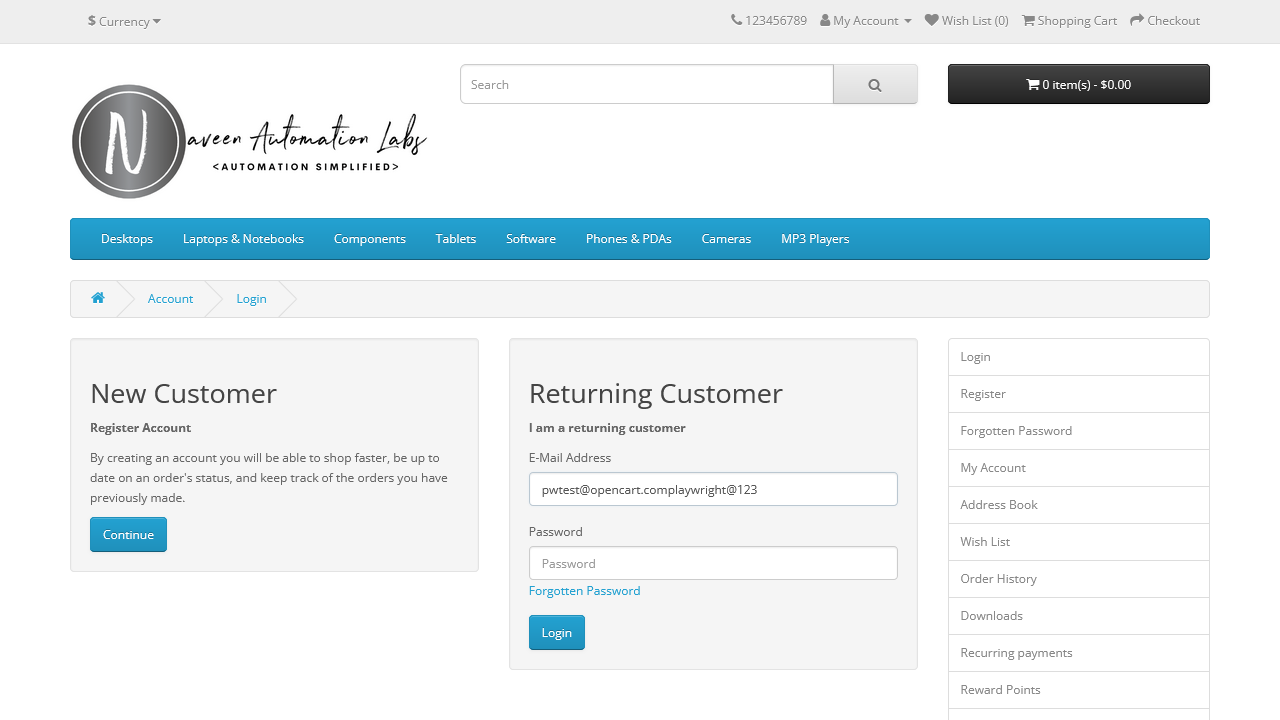
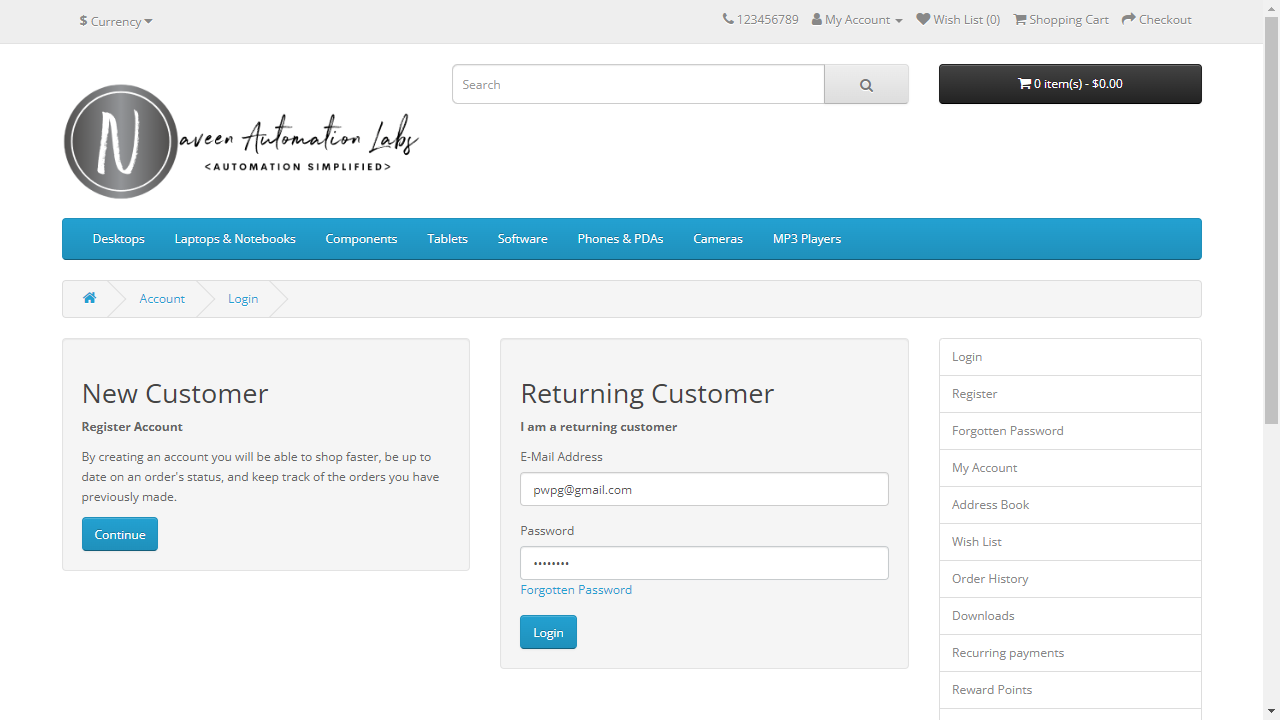
browserContext

diff --git a/e2e/browser.spec.ts b/e2e/browser.spec.ts
@@ -1,0 +1,41 @@
+import { test, expect, Browser, Page, Locator, BrowserContext } from '@playwright/test'
+import { webkit, chromium, firefox } from '@playwright/test'
+
+test('login test', async () => {
+    const browser: Browser = await chromium.launch({ headless: false, channel: 'chrome' });
+    // const page: Page = await browser.newPage();
+
+    // browser_context_1
+    const browser_context_1: BrowserContext = await browser.newContext();
+    const page1: Page = await browser_context_1.newPage();
+    // browser_context_2
+    const browser_context_2: BrowserContext = await browser.newContext();
+    const page2: Page = await browser_context_2.newPage();
+
+    // browser1
+    await page1.goto('http://naveenautomationlabs.com/opencart/index.php?route=account/login');
+    const emailId1: Locator = page1.locator('#input-email');
+    const password1: Locator = page1.locator('#input-password');
+    const loginButton1: Locator = page1.locator('[value="Login"]');
+
+    emailId1.fill('pwpg@gmail.com');
+    password1.fill('test@123');
+    loginButton1.click();
+
+    // browser2
+    await page2.goto('http://naveenautomationlabs.com/opencart/index.php?route=account/login');
+    const emailId2: Locator = page2.locator('#input-email');
+    const password2: Locator = page2.locator('#input-password');
+    const loginButton2: Locator = page2.locator('[value="Login"]');
+
+    emailId2.fill('pwpg1@gmail.com');
+    password2.fill('test@123');
+    loginButton2.click();
+
+    // await browser_context_1.close()
+    // await browser_context_2.close()
+
+    // await browser.close()
+    await new Promise(() => { });  //prevent your script form exiting
+
+});

diff --git a/e2e/login.spec.ts b/e2e/login.spec.ts
@@ -2,15 +2,15 @@ import {test, expect, Browser, Page, Locator} from '@playwright/test'
 import { webkit, chromium, firefox } from '@playwright/test'
 
 test('login test', async() => {
-    const browser: Browser = await firefox.launch({headless:false});
+    const browser: Browser = await chromium.launch({headless:false});
     const page: Page = await browser.newPage();
     await  page.goto('http://naveenautomationlabs.com/opencart/index.php?route=account/login');
     const emailId: Locator = await page.locator('#input-email');
-    const password: Locator = await page.locator('#input-email');
+    const password: Locator = await page.locator('#input-password');
     const loginButton:Locator = await page.locator('[value="Login"]')
     
-    emailId.fill('pwtest@opencart.com');
-    password.fill('playwright@123');
+    emailId.fill('pwpg@gmail.com');
+    password.fill('test@123');
     loginButton.click();
 
     const title = await page.title()
@@ -18,7 +18,7 @@ test('login test', async() => {
 
     await page.screenshot({path: 'homepage.png'})
 
-    expect(title).toEqual('My Account')
+    expect(title).toEqual('Account Login')
 
     await browser.close()
 });
